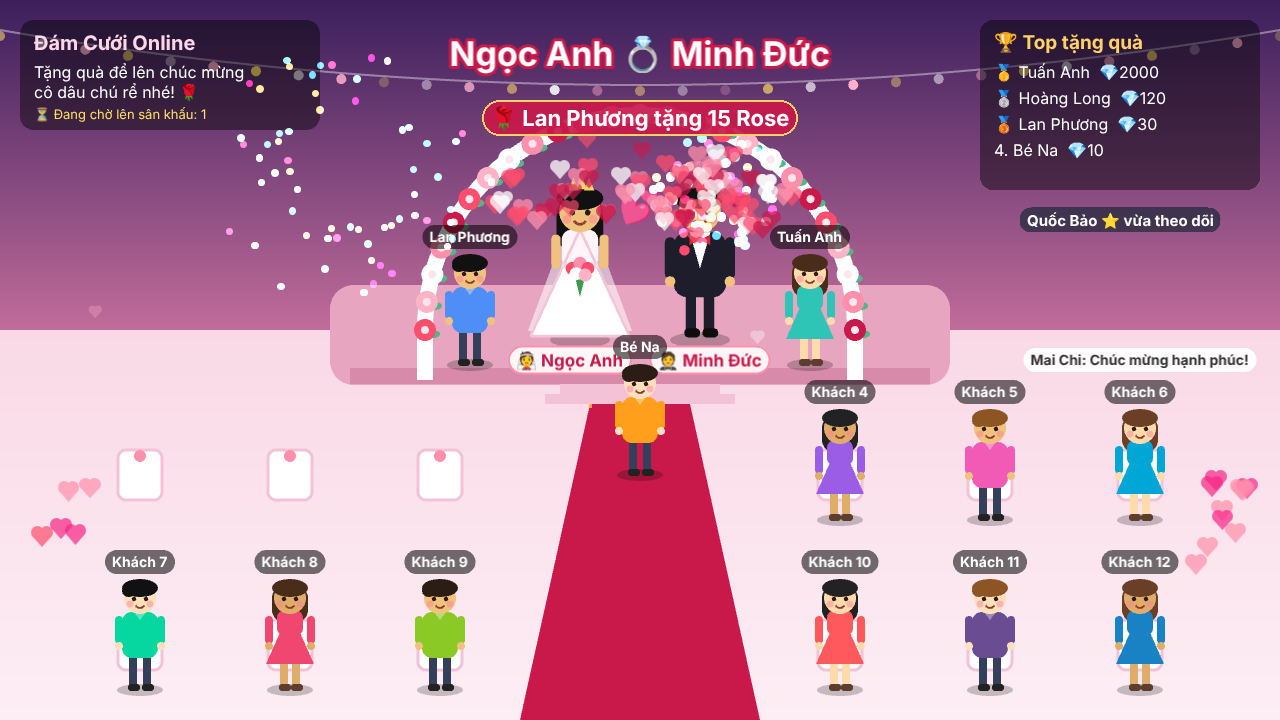
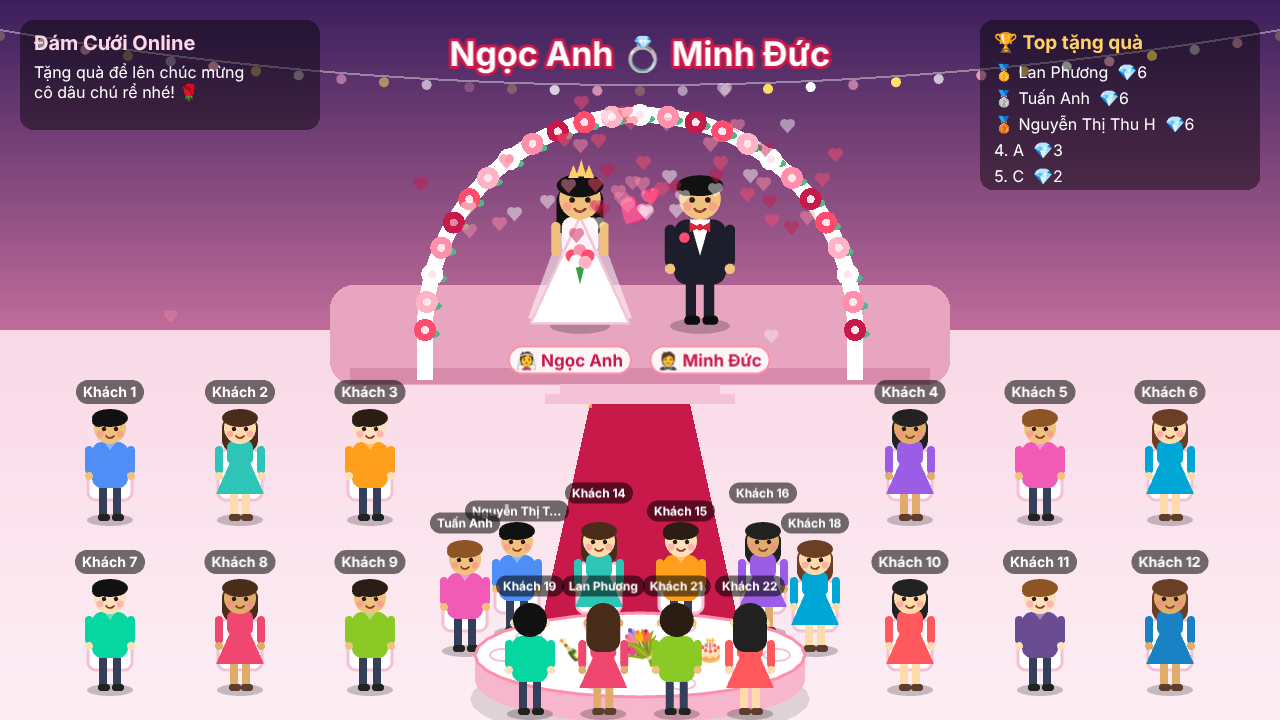
Thêm bàn tiệc 10 người ở cuối thảm đỏ
- Bàn tiệc tròn (hoa, rượu, bánh cưới, đĩa) với 10 khách: 4 ngồi hàng sau,
  2 ở hai đầu bàn, 4 ngồi hàng trước quay lưng. Khách bàn tiệc cũng nhận quà:
  đứng dậy, đi vòng qua bàn lên sân khấu rồi về chỗ
- Cấu hình Wedding:TableGuests (0-12, 0 = không có bàn)
- Nhân vật có dáng quay lưng: đi lên sân khấu thì quay lưng, đi về thì quay mặt
- Sửa lỗi hẹn giờ: thay time.delayedCall (chạy theo nhịp khung hình, máy chậm
  bị kéo dài 0.8s thành 10s) bằng tween chạy theo thời gian thật
- Vẽ khung cảnh tĩnh 1 lần vào RenderTexture cho nhẹ máy

Claude-Session: https://claude.ai/code/session_01VNTHxY9QXXUUwKoXNQFp9N

diff --git a/WeddingLive/wwwroot/js/game.js b/WeddingLive/wwwroot/js/game.js
@@ -8,11 +8,11 @@
   const CENTER_X = W / 2;
   const params = new URLSearchParams(location.search);
   const TRANSPARENT = params.get('bg') === '0';     // ?bg=0 => nền trong suốt cho OBS
-  const { FONT, makePerson, makeLabel, startWalk, stopWalk } = window.Chars;
+  const { FONT, makePerson, makeLabel, startWalk, stopWalk, setFacing } = window.Chars;
   if (TRANSPARENT) document.body.classList.add('transparent');
 
   // Cấu hình từ server (tên cô dâu chú rể, số khách...)
-  let cfg = { brideName: 'Cô Dâu', groomName: 'Chú Rể', title: 'Đám Cưới Online', guestCount: 12, bigGiftDiamonds: 99 };
+  let cfg = { brideName: 'Cô Dâu', groomName: 'Chú Rể', title: 'Đám Cưới Online', guestCount: 12, tableGuests: 10, bigGiftDiamonds: 99 };
   try { cfg = { ...cfg, ...(await (await fetch('/api/config')).json()) }; } catch { /* dùng mặc định */ }
 
   // Tên quà -> emoji hiển thị trên tay khách
@@ -26,6 +26,12 @@
   ];
   const giftEmoji = (name) => (GIFT_EMOJI.find(([re]) => re.test(name)) || [, '🎁'])[1];
   const isBig = (g) => (g.diamondValue * g.count) >= cfg.bigGiftDiamonds;
+
+  // Bàn tiệc ở cuối thảm đỏ
+  const TABLE_N = Phaser.Math.Clamp(cfg.tableGuests ?? 0, 0, 12);
+  const HAS_TABLE = TABLE_N > 0;
+  const TABLE = { x: CENTER_X, y: 655, rx: 165, ry: 42 };
+  const LANE_Y = 465;      // "lối đi ngang" phía trước sân khấu
 
   class WeddingScene extends Phaser.Scene {
     constructor() { super('wedding'); }
@@ -61,7 +67,9 @@
 
     // ---------------- Khung cảnh lễ cưới ----------------
     drawVenue() {
-      const g = this.add.graphics();
+      // Vẽ khung cảnh tĩnh 1 lần vào RenderTexture (như chụp thành ảnh) => mỗi khung hình
+      // không phải tính lại hàng trăm hình tròn/tam giác, nhẹ máy hơn nhiều.
+      const g = this.make.graphics({ add: false });
       g.fillGradientStyle(0x3b1f5c, 0x3b1f5c, 0xc06c9a, 0xc06c9a, 1).fillRect(0, 0, W, 330);   // trời
       g.fillGradientStyle(0xf9d9e6, 0xf9d9e6, 0xfdeef4, 0xfdeef4, 1).fillRect(0, 330, W, H - 330); // sàn
 
@@ -71,7 +79,9 @@
       g.fillStyle(0xf3c2d6, 1).fillRect(560, 384, 160, 10).fillRect(545, 394, 190, 10);
 
       // Thảm đỏ
-      g.fillStyle(0xc9184a, 1).fillPoints([{ x: 590, y: 404 }, { x: 690, y: 404 }, { x: 760, y: H }, { x: 520, y: H }], true);
+      const carpetEnd = HAS_TABLE ? 640 : H, spread = (carpetEnd - 404) * 70 / (H - 404);
+      g.fillStyle(0xc9184a, 1).fillPoints([{ x: 590, y: 404 }, { x: 690, y: 404 },
+        { x: 690 + spread, y: carpetEnd }, { x: 590 - spread, y: carpetEnd }], true);
       g.fillStyle(0xffd166, 0.7).fillRect(588, 404, 4, 4);
 
       // Cổng hoa
@@ -90,6 +100,9 @@
       // Dây đèn lấp lánh
       const curve = new Phaser.Curves.QuadraticBezier(new Phaser.Math.Vector2(0, 30), new Phaser.Math.Vector2(CENTER_X, 140), new Phaser.Math.Vector2(W, 30));
       g.lineStyle(2, 0xffffff, 0.4); curve.draw(g, 64);
+      const venue = this.add.renderTexture(0, 0, W, H).setOrigin(0).setDepth(0);
+      venue.draw(g);
+      g.destroy();
       curve.getPoints(30).forEach((p, i) => {
         const bulb = this.add.circle(p.x, p.y + 6, 5, [0xffe066, 0xffffff, 0xffafcc][i % 3]);
         this.tweens.add({ targets: bulb, alpha: 0.25, duration: 600 + (i % 5) * 180, yoyo: true, repeat: -1, delay: i * 70 });
@@ -118,31 +131,101 @@
     }
 
     // ---------------- Khách mời ở dưới ----------------
+    // Mỗi khách có: home (chỗ ngồi), path (các điểm đi từ chỗ ngồi ra lối đi ngang),
+    // seatFacing (hướng mặt khi ngồi yên).
+    addGuest(x, y, opts = {}) {
+      const i = this.guests.length;
+      if (!TRANSPARENT && opts.chair !== false) {   // ghế
+        const chair = this.add.graphics().setDepth(y - 1);
+        chair.fillStyle(0xffffff, 1).fillRoundedRect(x - 22, y - 70, 44, 50, 8);
+        chair.lineStyle(3, 0xf3c2d6, 1).strokeRoundedRect(x - 22, y - 70, 44, 50, 8);
+        chair.fillStyle(0xff8fab, 1).fillCircle(x, y - 64, 6);
+      }
+      const p = makePerson(this, x, y, 'guest', i);
+      const label = makeLabel(this, 'Khách ' + (i + 1), { fontSize: opts.compact ? '12px' : '14px' });
+      label.setPosition(0, opts.labelY ?? -128);
+      p.root.add(label);
+      Object.assign(p, {
+        label, homeX: x, homeY: y, busy: false, userId: null, lastUsed: 0, index: i, bubble: null,
+        path: opts.path, seatFacing: opts.facing || 'front', compact: !!opts.compact
+      });
+      setFacing(p, p.seatFacing);
+      this.guests.push(p);
+      return p;
+    }
+
     drawGuests() {
+      // --- Khách đứng hai bên lối đi ---
       const n = Phaser.Math.Clamp(cfg.guestCount, 4, 24);
       const perRow = 6;                                  // 3 bên trái + 3 bên phải lối đi
       const rows = Math.ceil(n / perRow);
       const top = 520, bottom = 690;
-      const leftXs = [140, 290, 440], rightXs = [840, 990, 1140];
+      // Có bàn tiệc thì dạt khách ra hai bên để chừa chỗ giữa
+      const leftXs = HAS_TABLE ? [110, 240, 370] : [140, 290, 440];
+      const rightXs = HAS_TABLE ? [910, 1040, 1170] : [840, 990, 1140];
 
       for (let i = 0; i < n; i++) {
         const row = Math.floor(i / perRow), col = i % perRow;
         const y = rows === 1 ? (top + bottom) / 2 : top + (bottom - top) * row / (rows - 1);
-        const x = col < 3 ? leftXs[col] : rightXs[col - 3];
-
-        if (!TRANSPARENT) {   // ghế
-          const chair = this.add.graphics().setDepth(y - 1);
-          chair.fillStyle(0xffffff, 1).fillRoundedRect(x - 22, y - 70, 44, 50, 8);
-          chair.lineStyle(3, 0xf3c2d6, 1).strokeRoundedRect(x - 22, y - 70, 44, 50, 8);
-          chair.fillStyle(0xff8fab, 1).fillCircle(x, y - 64, 6);
-        }
-        const p = makePerson(this, x, y, 'guest', i);
-        const label = makeLabel(this, 'Khách ' + (i + 1), { fontSize: '14px' });
-        label.setPosition(0, -128);
-        p.root.add(label);
-        Object.assign(p, { label, homeX: x, homeY: y, busy: false, userId: null, lastUsed: 0, index: i, bubble: null });
-        this.guests.push(p);
+        const left = col < 3;
+        const x = left ? leftXs[col] : rightXs[col - 3];
+        // Đi vào khe giữa hai cột ghế rồi đi thẳng lên lối đi ngang
+        const laneX = HAS_TABLE ? x + (left ? 65 : -65) : CENTER_X + Phaser.Math.Between(-25, 25);
+        this.addGuest(x, y, { path: [{ x: laneX, y }, { x: laneX, y: LANE_Y }] });
       }
+
+      if (HAS_TABLE) this.drawBanquet();
+    }
+
+    // ---------------- Bàn tiệc + khách ngồi quanh bàn ----------------
+    drawBanquet() {
+      const { x: TX, y: TY, rx: RX, ry: RY } = TABLE;
+      const front = TABLE_N >= 4 ? Math.floor(TABLE_N * 0.4) : 0;   // hàng trước, quay lưng
+      const sides = TABLE_N >= 6 ? 2 : 0;                          // hai đầu bàn
+      const backN = TABLE_N - front - sides;                        // hàng sau, nhìn về người xem
+      const spreadX = (count, margin) => Array.from({ length: count }, (_, k) =>
+        count === 1 ? TX : TX - RX + margin + (2 * (RX - margin)) * k / (count - 1));
+
+      // Hàng sau: bàn che phần chân => trông như đang ngồi. Đi thẳng lên sân khấu.
+      spreadX(backN, 42).forEach((x, k) => this.addGuest(x, TY - 22, {
+        compact: true, labelY: k % 2 ? -140 : -122, path: [{ x, y: LANE_Y }]
+      }));
+
+      // Hai đầu bàn: bước ra ngoài rồi đi lên
+      if (sides) [-1, 1].forEach(side => {
+        const x = TX + side * (RX + 10), y = TY - 4, outX = x + side * 45;
+        this.addGuest(x, y, { compact: true, path: [{ x: outX, y }, { x: outX, y: LANE_Y }] });
+      });
+
+      // Hàng trước: quay lưng, đi vòng qua đầu bàn rồi lên
+      spreadX(front, 55).forEach(x => {
+        const y = H - 6, sideX = x < TX ? TX - RX - 60 : TX + RX + 60;
+        this.addGuest(x, y, {
+          compact: true, facing: 'back', chair: false,
+          path: [{ x: sideX, y }, { x: sideX, y: LANE_Y }]
+        });
+      });
+
+      // Mặt bàn: vẽ sau cùng, depth = TY => che chân hàng sau, nằm dưới hàng trước
+      const t = this.add.graphics().setDepth(TY);
+      t.fillStyle(0x000000, 0.12).fillEllipse(TX, TY + 44, RX * 2 + 10, RY * 2);         // bóng
+      t.fillStyle(0xf7b6cc, 1).fillEllipse(TX, TY + 26, RX * 2, RY * 2)
+        .fillRect(TX - RX, TY, RX * 2, 26);                                              // khăn trải bàn rủ xuống
+      t.fillStyle(0xffffff, 1).fillEllipse(TX, TY, RX * 2, RY * 2);                      // mặt bàn
+      t.lineStyle(3, 0xff8fab, 1).strokeEllipse(TX, TY, RX * 2, RY * 2);
+      for (let k = 0; k < 10; k++) {                                                     // đĩa
+        const a = (k / 10) * Math.PI * 2;
+        const px = TX + Math.cos(a) * (RX - 28), py = TY + Math.sin(a) * (RY - 12);
+        t.fillStyle(0xffffff, 1).fillEllipse(px, py, 26, 12);
+        t.lineStyle(2, 0xf3c2d6, 1).strokeEllipse(px, py, 26, 12);
+      }
+      const deco = (x, y, e, size) => this.add.text(x, y, e, { fontFamily: FONT, fontSize: size })
+        .setOrigin(0.5, 0.8).setDepth(TY + 1);
+      deco(TX, TY + 4, '💐', '34px');
+      deco(TX - 70, TY + 2, '🍾', '22px');
+      deco(TX + 70, TY + 2, '🎂', '24px');
+      deco(TX - 112, TY + 8, '🥂', '16px');
+      deco(TX + 112, TY + 8, '🥂', '16px');
     }
 
     // ---------------- Chữ, bảng xếp hạng, thông báo ----------------
@@ -186,6 +269,12 @@
       }).setDepth(940);
     }
 
+    // Hẹn giờ theo thời gian thật (dùng tween). Không dùng time.delayedCall vì đồng hồ đó
+    // chạy theo nhịp khung hình: máy/OBS render chậm thì 0.8s có thể thành 10s.
+    after(ms, cb) {
+      return this.tweens.addCounter({ from: 0, to: 1, duration: Math.max(1, ms), onComplete: () => cb() });
+    }
+
     update() {
       // Ai đứng thấp hơn (y lớn hơn) thì vẽ đè lên trước
       for (const p of this.guests) p.root.setDepth(p.root.y + (p.busy ? 5 : 0));
@@ -217,14 +306,18 @@
     pickGuest(userId) {
       const idle = this.guests.filter(g => !g.busy);
       if (!idle.length) return null;
-      return idle.find(g => g.userId && g.userId === userId) || idle.sort((a, b) => a.lastUsed - b.lastUsed)[0];
+      const same = idle.find(g => g.userId && g.userId === userId);
+      if (same) return same;
+      const oldest = Math.min(...idle.map(g => g.lastUsed));
+      return Phaser.Utils.Array.GetRandom(idle.filter(g => g.lastUsed === oldest));
     }
 
     sendGuest(guest, slot, gift) {
       guest.busy = true; slot.busy = true;
       guest.userId = gift.userId;
-      guest.lastUsed = this.time.now;
-      guest.label.setText(gift.nickname);
+      guest.lastUsed = performance.now();
+      const max = guest.compact ? 12 : 24;
+      guest.label.setText(gift.nickname.length > max ? gift.nickname.slice(0, max) + '…' : gift.nickname);
       this.tweens.add({ targets: guest.label, scale: { from: 1.6, to: 1 }, duration: 400, ease: 'Back.out' });
 
       const emoji = giftEmoji(gift.giftName);
@@ -232,19 +325,20 @@
 
       // Hàng đợi dài => đi nhanh hơn
       const speed = 300 * (1 + Math.min(this.queue.length, 10) * 0.12);
-      const aisleX = CENTER_X + Phaser.Math.Between(-25, 25);
-      const pathUp = [{ x: aisleX, y: guest.homeY }, { x: aisleX, y: 450 }, { x: slot.x, y: slot.y }];
-      const pathBack = [{ x: aisleX, y: 450 }, { x: aisleX, y: guest.homeY }, { x: guest.homeX, y: guest.homeY }];
+      const pathUp = [...guest.path, { x: slot.x, y: slot.y }];
+      const pathBack = [...guest.path].reverse().concat({ x: guest.homeX, y: guest.homeY });
 
       startWalk(this, guest, speed / 300);
       this.walk(guest, pathUp, speed, () => {
         stopWalk(guest);
+        setFacing(guest, 'back');                    // quay về phía cô dâu chú rể
         this.present(guest, gift, emoji, slot, () => {
           slot.busy = false;
           this.processQueue();
           startWalk(this, guest, speed / 300);
           this.walk(guest, pathBack, speed, () => {
             stopWalk(guest);
+            setFacing(guest, guest.seatFacing);
             guest.busy = false;
             this.processQueue();
           });
@@ -257,8 +351,12 @@
       let { x, y } = p.root;
       const tweens = points.map(pt => {
         const d = Phaser.Math.Distance.Between(x, y, pt.x, pt.y);
+        const dy = pt.y - y;
         x = pt.x; y = pt.y;
-        return { x: pt.x, y: pt.y, duration: Math.max(60, d / speed * 1000), ease: 'Linear' };
+        return {
+          x: pt.x, y: pt.y, duration: Math.max(60, d / speed * 1000), ease: 'Linear',
+          onStart: () => { if (dy < -4) setFacing(p, 'back'); else if (dy > 4) setFacing(p, 'front'); }
+        };
       });
       this.tweens.chain({ targets: p.root, tweens, onComplete: onDone });
     }
@@ -292,7 +390,7 @@
             targets: [fly, countTxt].filter(Boolean), alpha: 0, y: '-=40', delay: 900, duration: 500,
             onComplete: () => { fly.destroy(); countTxt?.destroy(); }
           });
-          this.time.delayedCall(big ? 1400 : 800, onDone);
+          this.after(big ? 1400 : 800, onDone);
         }
       });
     }
@@ -306,7 +404,7 @@
     celebrate() {
       this.cameras.main.flash(250, 255, 240, 250);
       for (let i = 0; i < 6; i++) {
-        this.time.delayedCall(i * 260, () =>
+        this.after(i * 260, () =>
           this.fireworks.explode(60, Phaser.Math.Between(200, W - 200), Phaser.Math.Between(70, 230)));
       }
     }
@@ -338,7 +436,7 @@
       g.root.add(bubble);
       g.bubble = bubble;
       this.tweens.add({ targets: bubble, scale: { from: 0, to: 1 }, duration: 250, ease: 'Back.out' });
-      this.time.delayedCall(4000, () => { if (g.bubble === bubble) { bubble.destroy(); g.bubble = null; } });
+      this.after(4000, () => { if (g.bubble === bubble) { bubble.destroy(); g.bubble = null; } });
     }
 
     onLike(e) {
@@ -355,7 +453,7 @@
       if (this.toasts.length > 4) this.toasts.shift().destroy();
       this.toasts.forEach((x, i) => x.y = 220 + i * 34);
       this.tweens.add({ targets: t, x: W - 160, duration: 350, ease: 'Cubic.out' });
-      this.time.delayedCall(4000, () => this.tweens.add({
+      this.after(4000, () => this.tweens.add({
         targets: t, alpha: 0, duration: 400,
         onComplete: () => { this.toasts = this.toasts.filter(x => x !== t); t.destroy(); }
       }));

diff --git a/WeddingLive/wwwroot/js/characters.js b/WeddingLive/wwwroot/js/characters.js
@@ -119,8 +119,24 @@
       if (!female) body.fillEllipse(-11, -99, 14, 12);
     }
 
+    // Dáng nhìn từ phía sau (chỉ khách): dùng khi đi lên sân khấu / ngồi quay lưng ở bàn tiệc
+    let back = null;
+    if (type === 'guest') {
+      const shirt = pick(SHIRTS, index);
+      const female = index % 2 === 1;
+      back = scene.add.graphics().setVisible(false);
+      if (female) back.fillStyle(shirt, 1).fillTriangle(0, -80, -24, -26, 24, -26).fillRoundedRect(-13, -80, 26, 26, 8);
+      else back.fillStyle(shirt, 1).fillRoundedRect(-18, -78, 36, 46, 10);
+      back.fillStyle(shirt, 1).fillRoundedRect(-25, -74, 8, 28, 4).fillRoundedRect(17, -74, 8, 28, 4);
+      back.fillStyle(skin, 1).fillCircle(-21, -44, 4).fillCircle(21, -44, 4);
+      back.fillStyle(skin, 1).fillCircle(-16, -91, 4).fillCircle(16, -91, 4);       // tai
+      back.fillStyle(hair, 1).fillCircle(0, -94, 17);                               // gáy tóc
+      if (female) back.fillRoundedRect(-17, -100, 34, 38, 12);                      // tóc dài
+    }
+
     if (legL) puppet.add([legL, legR]);
     puppet.add(body);
+    if (back) puppet.add(back);
 
     // Món quà cầm trên tay (ẩn khi không có)
     const gift = scene.add.text(24, -50, '', { fontFamily: FONT, fontSize: '26px' }).setOrigin(0.5);
@@ -128,7 +144,7 @@
 
     root.add([shadow, puppet]);
 
-    const person = { root, puppet, body, legL, legR, gift, walkTweens: [] };
+    const person = { root, puppet, body, back, legL, legR, gift, walkTweens: [], facing: 'front' };
     if (type === 'bride' || type === 'groom') root.setScale(1.3);
     return person;
   }
@@ -151,5 +167,13 @@
     p.puppet.y = 0;
   }
 
-  window.Chars = { FONT, makePerson, makeLabel, startWalk, stopWalk };
+  // ---------- Quay mặt: 'front' = nhìn về người xem, 'back' = quay lưng ----------
+  function setFacing(p, dir) {
+    if (!p.back || p.facing === dir) return;
+    p.facing = dir;
+    p.body.setVisible(dir === 'front');
+    p.back.setVisible(dir === 'back');
+  }
+
+  window.Chars = { FONT, makePerson, makeLabel, startWalk, stopWalk, setFacing };
 })();

diff --git a/WeddingLive/Models/WeddingOptions.cs b/WeddingLive/Models/WeddingOptions.cs
@@ -14,6 +14,9 @@ public class WeddingOptions
     /// <summary>Số khách ngồi ở dưới (tối thiểu 4, tối đa 24).</summary>
     public int GuestCount { get; set; } = 12;
 
+    /// <summary>Số người ngồi ở bàn tiệc cuối thảm đỏ (0 = không có bàn, tối đa 12).</summary>
+    public int TableGuests { get; set; } = 10;
+
     /// <summary>
     /// Khóa bí mật mà bridge / TikFinity phải gửi trong header X-Api-Key (hoặc ?key=).
     /// Để trống = không kiểm tra (chỉ nên dùng khi chạy local).

diff --git a/WeddingLive/Endpoints/LiveEndpoints.cs b/WeddingLive/Endpoints/LiveEndpoints.cs
@@ -23,6 +23,7 @@ public static class LiveEndpoints
             o.CurrentValue.GroomName,
             o.CurrentValue.Title,
             GuestCount = Math.Clamp(o.CurrentValue.GuestCount, 4, 24),
+            TableGuests = Math.Clamp(o.CurrentValue.TableGuests, 0, 12),
             o.CurrentValue.BigGiftDiamonds
         }));
 

diff --git a/README.md b/README.md
@@ -2,7 +2,7 @@
 
 Game đám cưới chạy trên web (ASP.NET Core 8 + Phaser 3 + SignalR), kết nối với **TikTok Live**:
 
-- Cô dâu chú rể đứng trên sân khấu, **12 khách** (tùy chỉnh 4–24) ngồi ở dưới.
+- Cô dâu chú rể đứng trên sân khấu, **12 khách** (tùy chỉnh 4–24) hai bên lối đi và **bàn tiệc 10 người** (0–12) ở cuối thảm đỏ.
 - Có người **tặng quà** trên live → 1 khách **đổi tên theo người tặng**, cầm quà đi lên tặng cô dâu chú rể rồi về chỗ.
 - Quà lớn (≥ 99💎) → pháo hoa, chớp sáng, cô dâu chú rể nhảy lên.
 - **Bình luận** → khách nói bong bóng chat. **Thả tim** → tim bay. **Follow/Share** → thông báo.
@@ -84,7 +84,8 @@ http://localhost:5000/api/events/webhook/gift?key=API_KEY&username={username}&ni
   "Title": "Đám Cưới Online",
   "BrideName": "Ngọc Anh",
   "GroomName": "Minh Đức",
-  "GuestCount": 12,          // 4 - 24 khách
+  "GuestCount": 12,          // 4 - 24 khách đứng hai bên lối đi
+  "TableGuests": 10,         // 0 - 12 người ngồi bàn tiệc (0 = không có bàn)
   "ApiKey": "",              // đặt khóa bí mật khi chạy trên server public
   "BigGiftDiamonds": 99,     // từ mức này trở lên bắn pháo hoa
   "DispatchDelayMs": 250     // giãn cách giữa 2 quà
